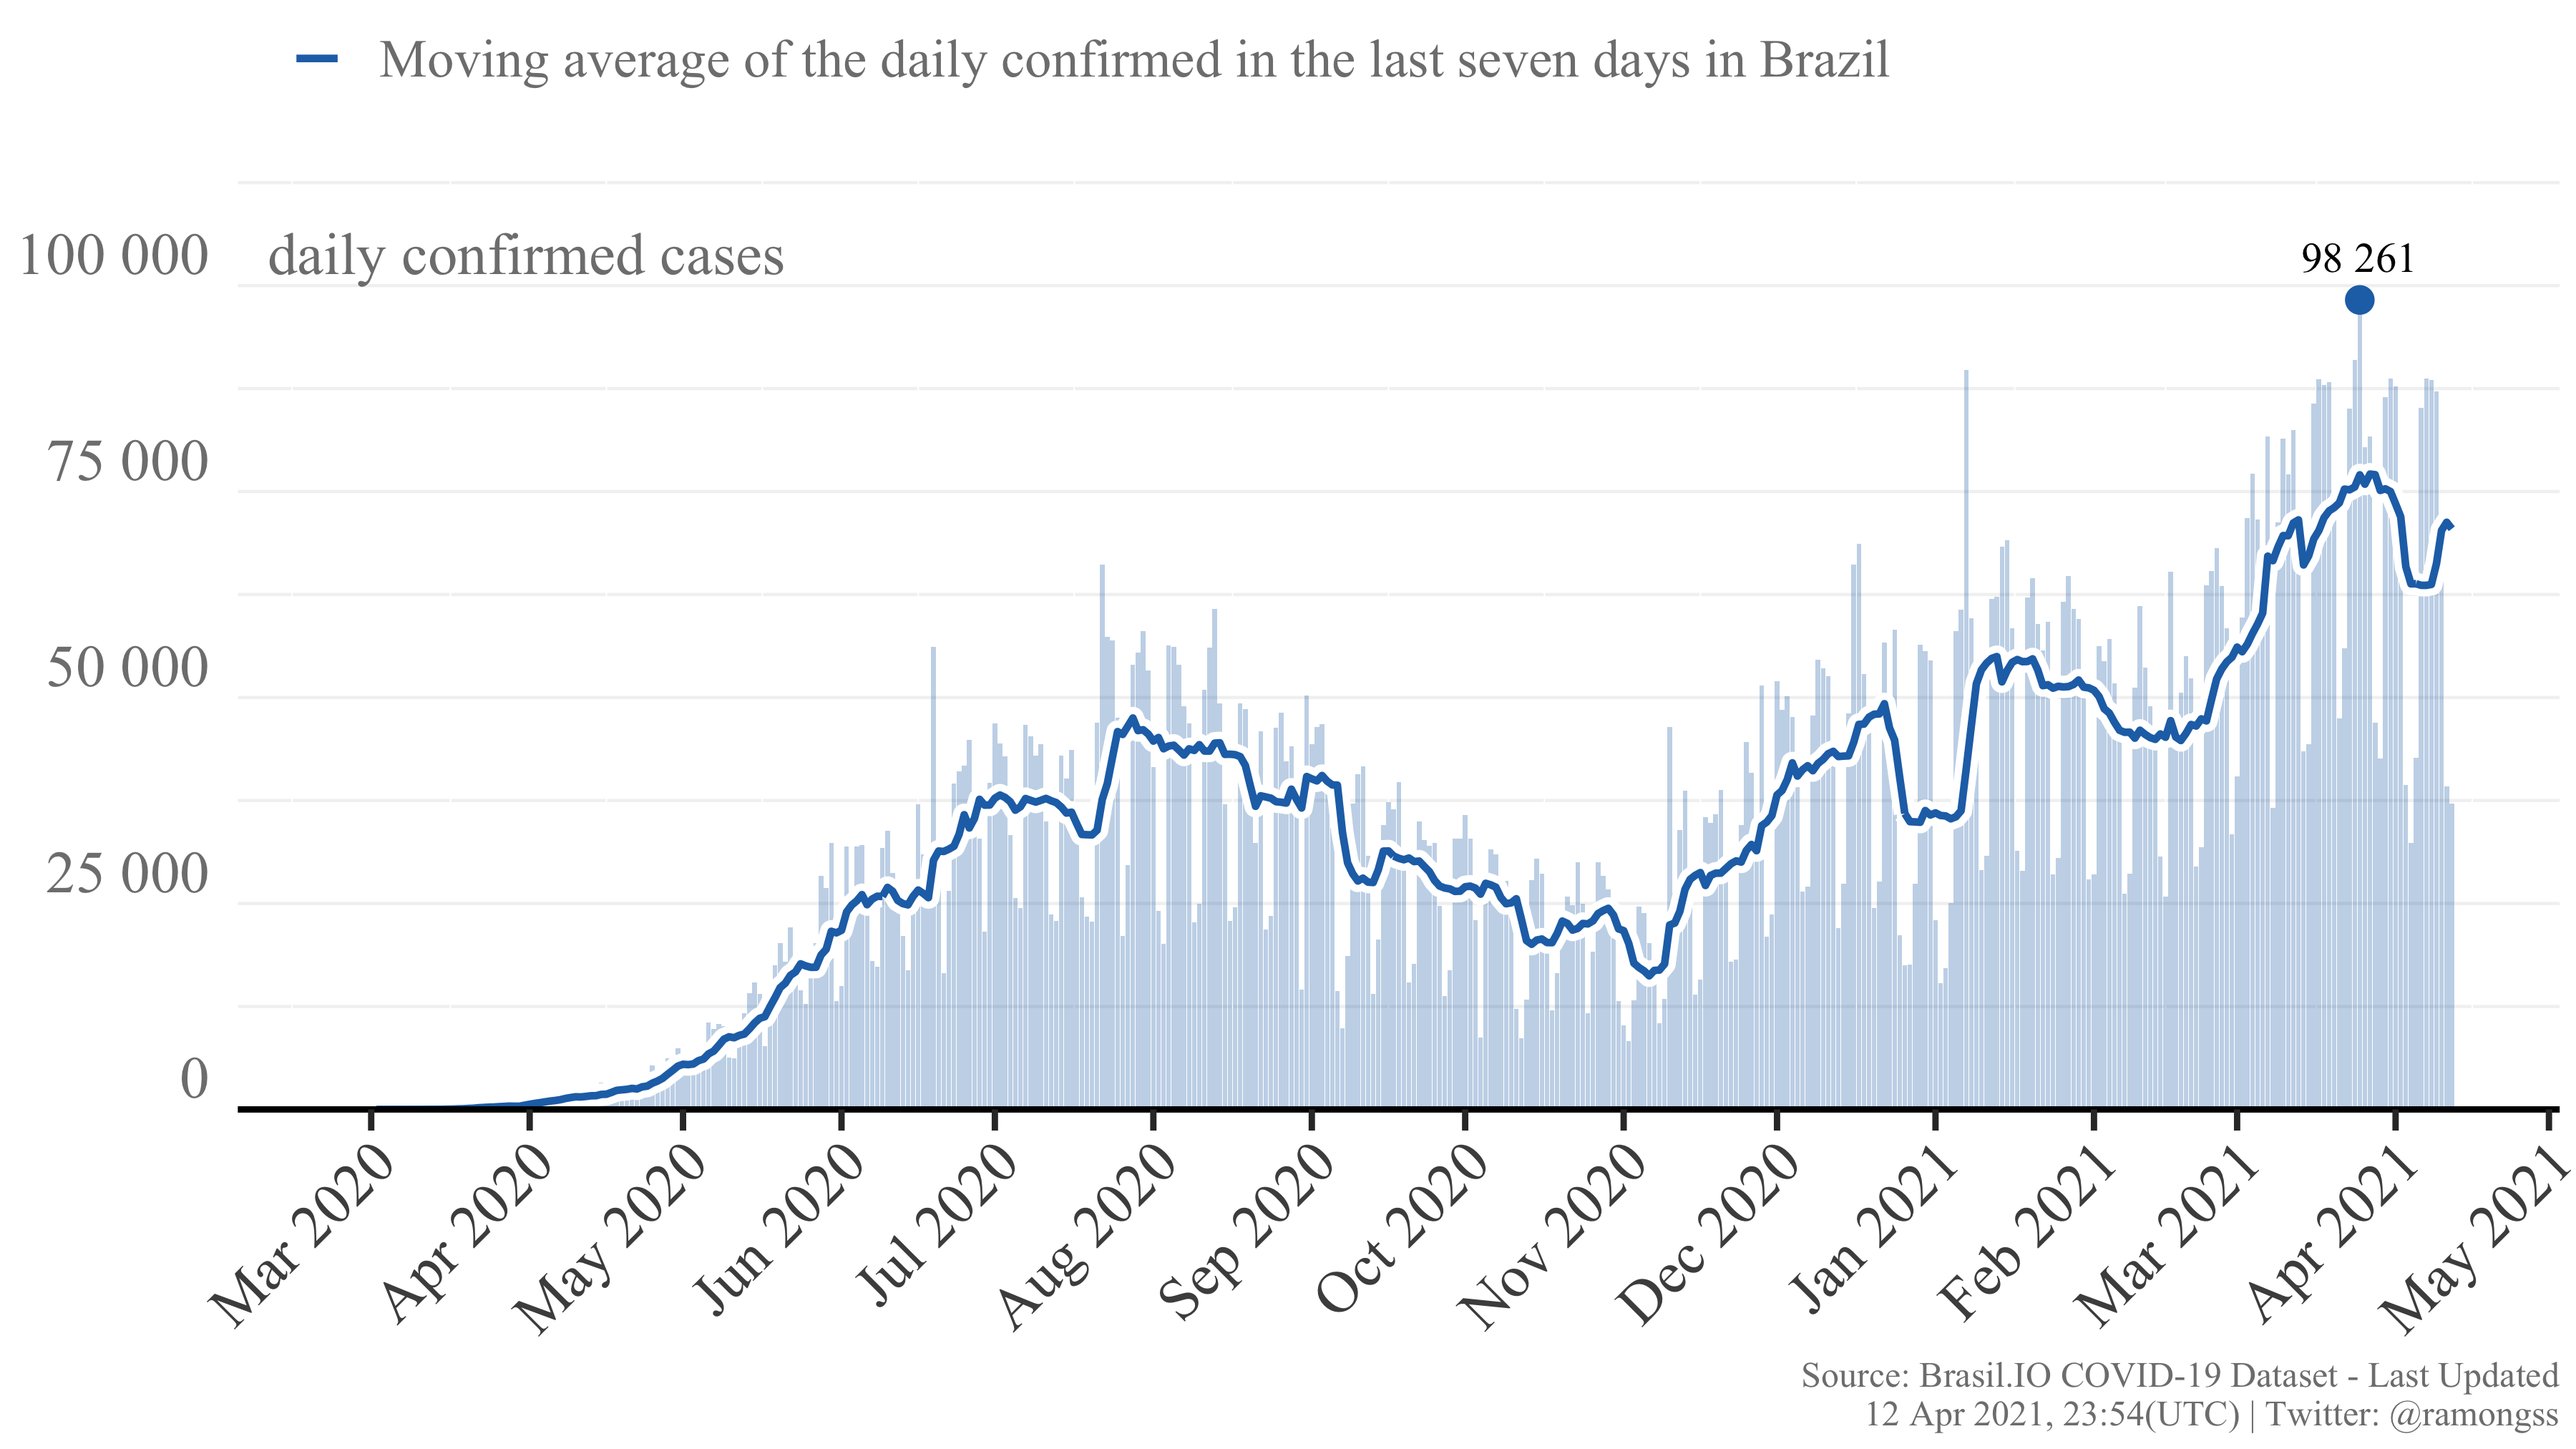
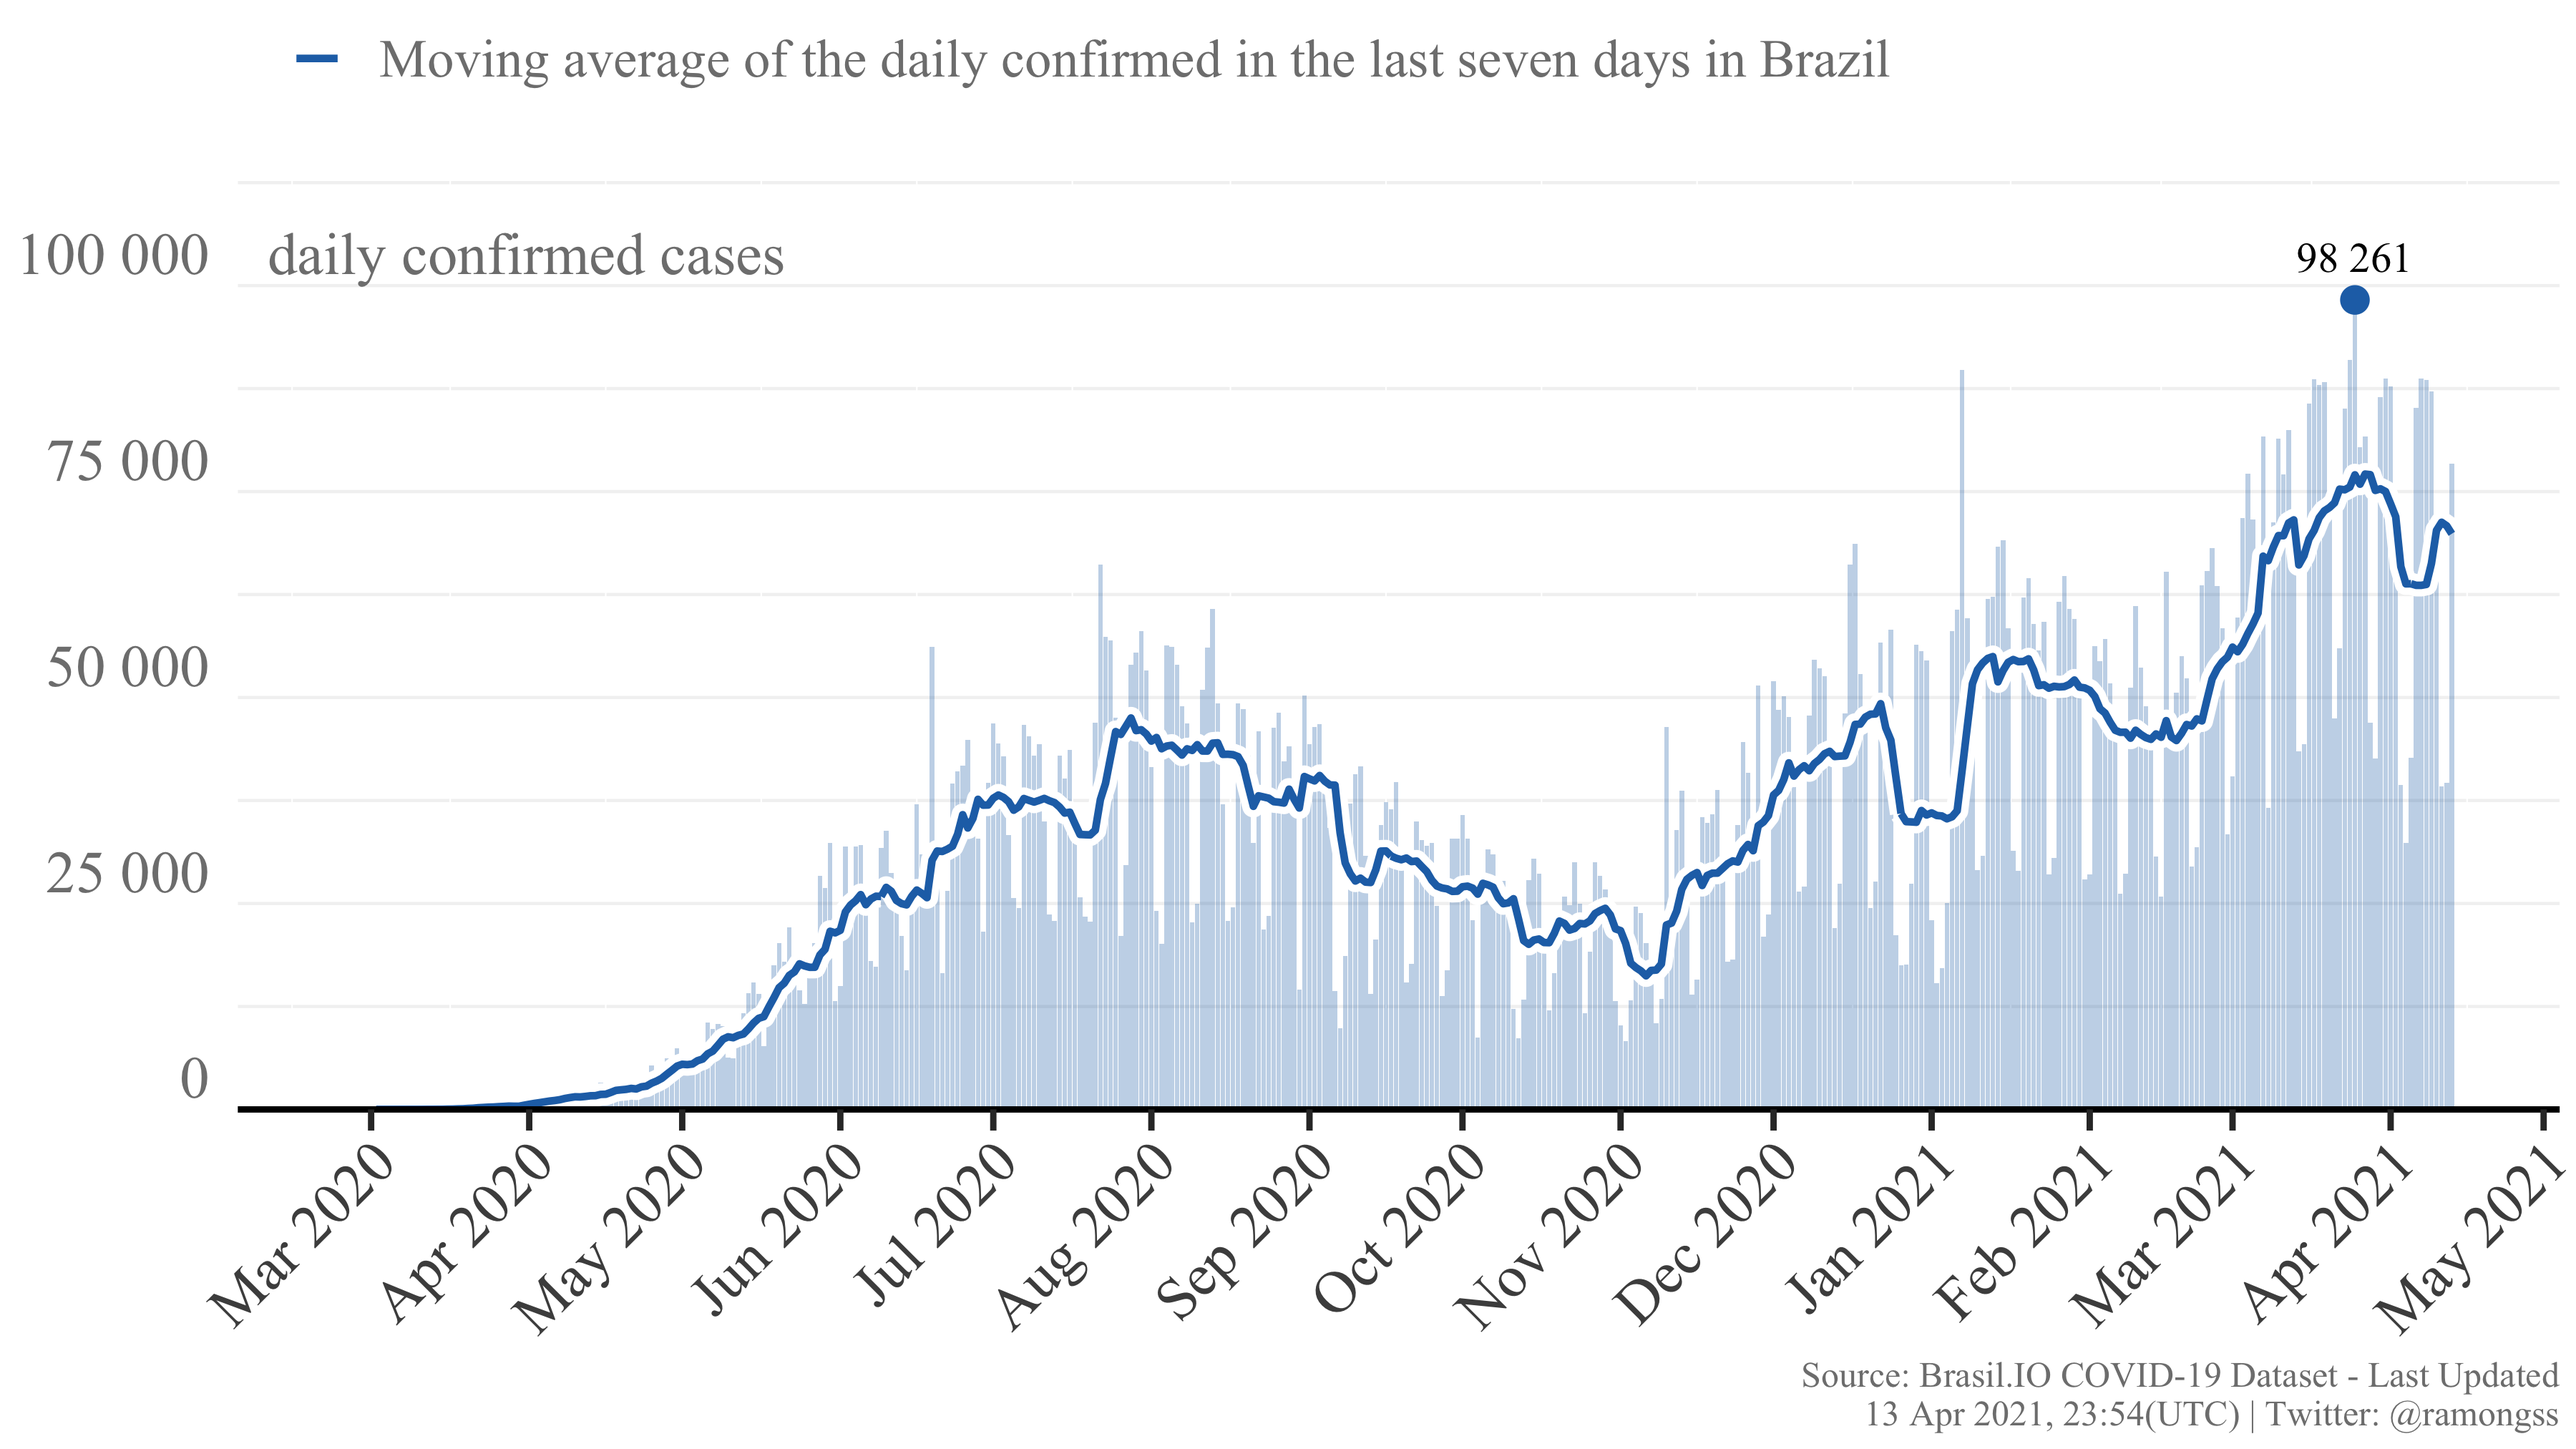
Re-build README.Rmd

diff --git a/README.md b/README.md
@@ -27,8 +27,8 @@ download_brasilio_table <- function(dataset = "covid19", table_name){
 
 ## COVID-19 Confirmed cases
 
-Currently, Brazil has a total of **13,528,263** confirmed cases at **12
-Apr, 2021**, with **37,156** new confirmed cases. The daily maximum
+Currently, Brazil has a total of **13,609,116** confirmed cases at **13
+Apr, 2021**, with **78,359** new confirmed cases. The daily maximum
 incidence was **98,261** confirmed cases at **25 Mar, 2021**. Here
 follows the Figure showing the confirmed case incidence as the bars, and
 the line as the moving average of the last 7 days.
@@ -37,8 +37,8 @@ the line as the moving average of the last 7 days.
 
 ## COVID-19 Deaths
 
-Currently, Brazil has a total of **355,172** deaths at **12 Apr, 2021**,
-with **1,641** new deaths. The daily maximum deaths incidence was
+Currently, Brazil has a total of **358,830** deaths at **13 Apr, 2021**,
+with **3,588** new deaths. The daily maximum deaths incidence was
 **4,148** deaths at **08 Apr, 2021**. Here follows the Figure showing
 the deaths incidence as the bars, and the line as the moving average of
 the last 7 days.
@@ -49,4 +49,4 @@ the last 7 days.
 
 This page is daily updated automatically using Github Actions.
 
-*Last update: 12 Apr 2021, 23:54 (UTC).*
+*Last update: 13 Apr 2021, 23:54 (UTC).*
